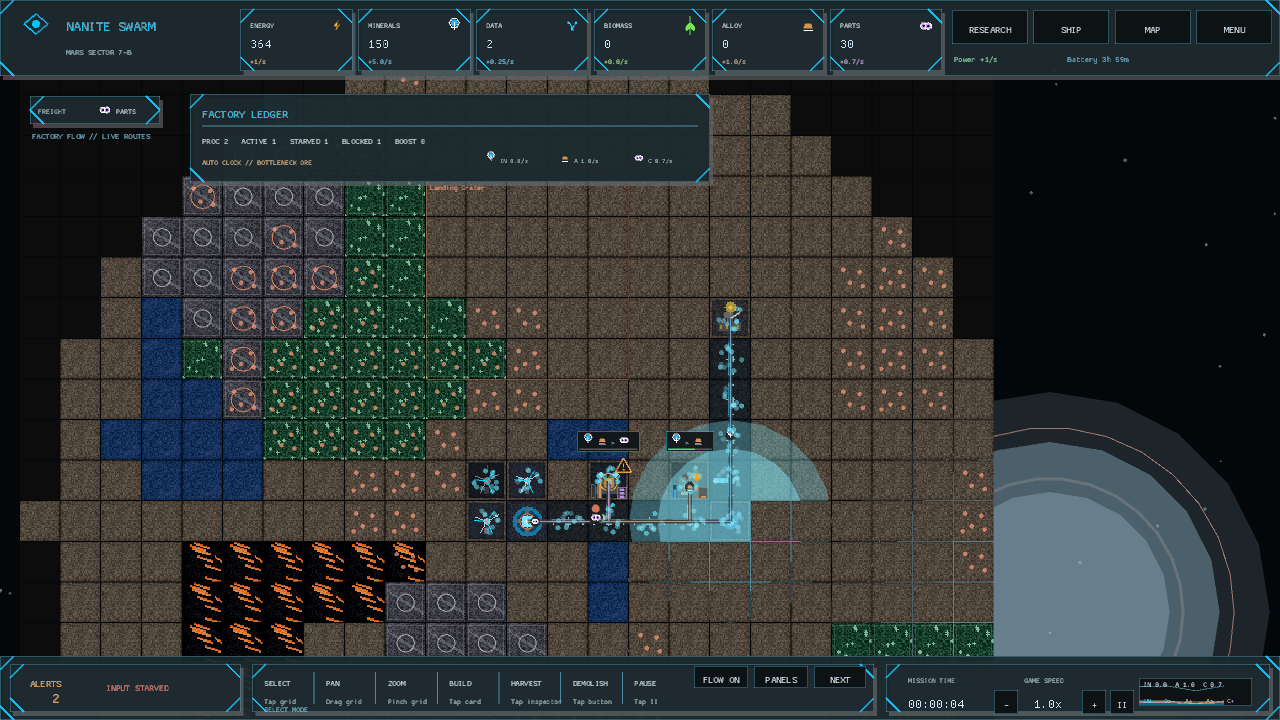
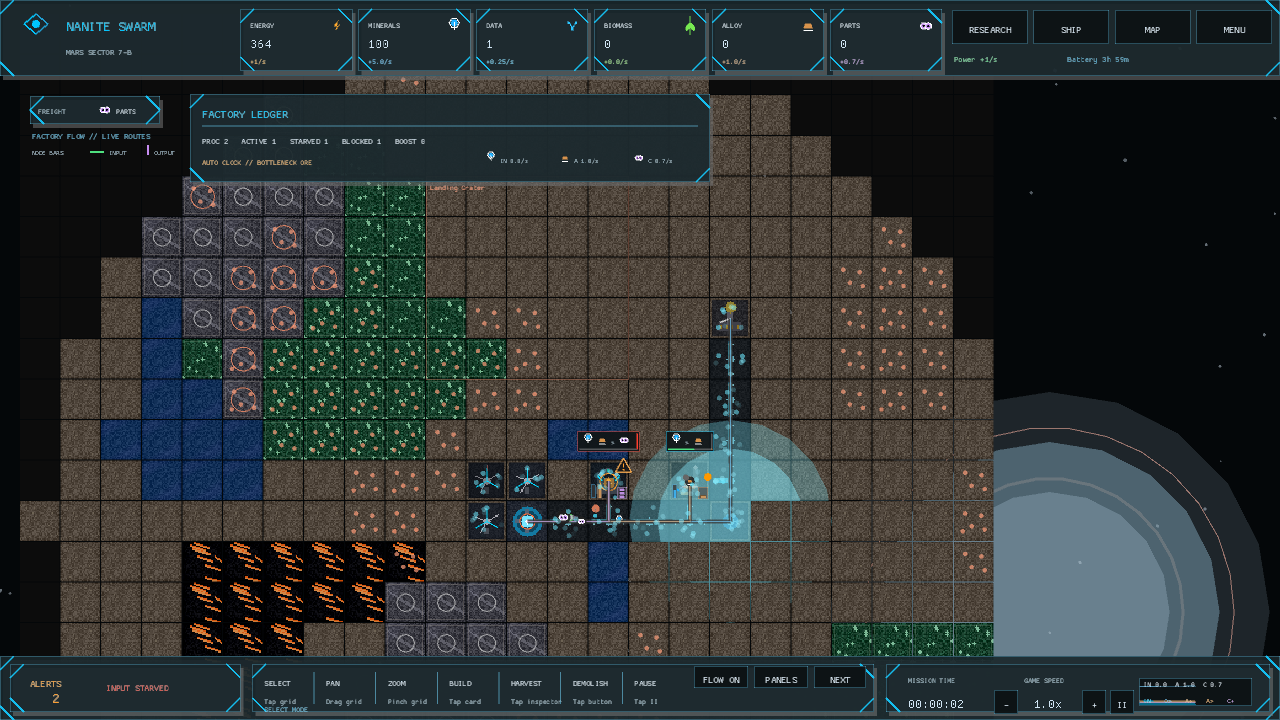
The flow glyphs show pressure on both sides of the machine (dual input and output factory gauges)
Recipe nodes previously exposed input readiness but gave dispatch-pad pressure no equivalent visual signal. Add a resource-colored output gauge to each node, turn it red under backpressure, and document the horizontal/vertical key directly in FLOW. A focused test ties gauge fill to the actual researched pad capacity.

diff --git a/src/screens/planetary_view/flow_render.rs b/src/screens/planetary_view/flow_render.rs
@@ -24,6 +24,7 @@ struct FlowNode {
     readiness: f32,
     powered: bool,
     blocked: bool,
+    output_pressure: f32,
 }
 
 #[derive(Debug, Clone, PartialEq)]
@@ -63,6 +64,49 @@ pub(super) fn draw(state: &PlanetState, metrics: HudMetrics, theme: &UiTheme, ti
         metrics.base_offset_y() + 53.0,
         10.0,
         color_from_rgba(&theme.colors.primary_soft),
+    );
+    draw_node_key(metrics, theme);
+}
+
+fn draw_node_key(metrics: HudMetrics, theme: &UiTheme) {
+    let x = metrics.base_offset_x() + 12.0;
+    let y = metrics.base_offset_y() + 69.0;
+    draw_ui_text(
+        "NODE BARS",
+        x,
+        y,
+        8.0,
+        color_from_rgba(&theme.colors.text_dim),
+    );
+    draw_line(
+        x + 58.0,
+        y - 3.0,
+        x + 72.0,
+        y - 3.0,
+        2.0,
+        color_from_rgba(&theme.colors.success),
+    );
+    draw_ui_text(
+        "INPUT",
+        x + 77.0,
+        y,
+        8.0,
+        color_from_rgba(&theme.colors.text_dim),
+    );
+    draw_line(
+        x + 116.0,
+        y - 10.0,
+        x + 116.0,
+        y,
+        2.0,
+        color_from_rgba(&theme.colors.components),
+    );
+    draw_ui_text(
+        "OUTPUT",
+        x + 122.0,
+        y,
+        8.0,
+        color_from_rgba(&theme.colors.text_dim),
     );
 }
 
@@ -323,6 +367,29 @@ fn draw_node(node: &FlowNode, starved: bool, metrics: HudMetrics, theme: &UiThem
             color_from_rgba(&theme.colors.success)
         },
     );
+    let output_x = x + width - 3.0;
+    let output_h = (height - 4.0) * node.output_pressure;
+    draw_rectangle(
+        output_x,
+        y + 2.0,
+        1.5,
+        height - 4.0,
+        with_alpha(Colors::TEXT_DIM, 0.2),
+    );
+    draw_rectangle(
+        output_x,
+        y + height - 2.0 - output_h,
+        1.5,
+        output_h,
+        if node.blocked {
+            color_from_rgba(&theme.colors.error)
+        } else {
+            node.outputs
+                .first()
+                .map(|resource| resource_color(theme, *resource))
+                .unwrap_or(Colors::TEXT_DIM)
+        },
+    );
 }
 
 fn factory_flow_nodes(state: &PlanetState) -> Vec<FlowNode> {
@@ -346,6 +413,13 @@ fn factory_flow_nodes(state: &PlanetState) -> Vec<FlowNode> {
                 readiness: recipe_readiness(state, pos, &def.recipe),
                 powered: is_operational(state, pos),
                 blocked: blocked.contains(&pos),
+                output_pressure: (state
+                    .output_buffers
+                    .get(&(pos.x, pos.y))
+                    .copied()
+                    .unwrap_or(0.0)
+                    / state.processor_pad_capacity())
+                .clamp(0.0, 1.0),
             });
         }
     }

diff --git a/src/screens/planetary_view/flow_render/tests.rs b/src/screens/planetary_view/flow_render/tests.rs
@@ -93,3 +93,17 @@ fn factory_ledger_names_the_missing_input_and_boosted_processor() {
     assert_eq!(ledger.boosted, 1);
     assert_eq!(ledger.bottleneck, Some(ResourceType::Minerals));
 }
+
+#[test]
+fn flow_node_output_gauge_uses_the_real_dispatch_pad_capacity() {
+    let mut state = PlanetState::new(2, 42, GameConfig::default());
+    let pos = state.grid.find_core().unwrap();
+    state.grid.get_mut(pos).unwrap().building =
+        Some(crate::engine::Building::new(BuildingType::Smelter, pos));
+    state
+        .output_buffers
+        .insert((pos.x, pos.y), state.processor_pad_capacity() * 0.5);
+
+    let node = factory_flow_nodes(&state).into_iter().next().unwrap();
+    assert!((node.output_pressure - 0.5).abs() < 0.001);
+}

diff --git a/README.md b/README.md
@@ -39,6 +39,7 @@ Processor dispatch pads are finite: a full alloy or components stack pauses that
 Research Buffer Lattices after Precision Assembly and Storage Optimization to expand every processor dispatch pad by 50%.
 Records now reward scaling the factory systems themselves: three simultaneous boosted processors earn Redline Cluster, while fifty staged units of refined output earn Freight Yard.
 When a selected processor pad is full, tap PURGE PAD and then PURGE AGAIN to discard only its staged output and recover the machine without accidental one-tap loss.
+FLOW recipe nodes use separate gauges: the bottom bar is input readiness, while the right edge rises with output pressure and turns red at a full dispatch pad.
 
 Keyboard shortcuts are optional:
 
